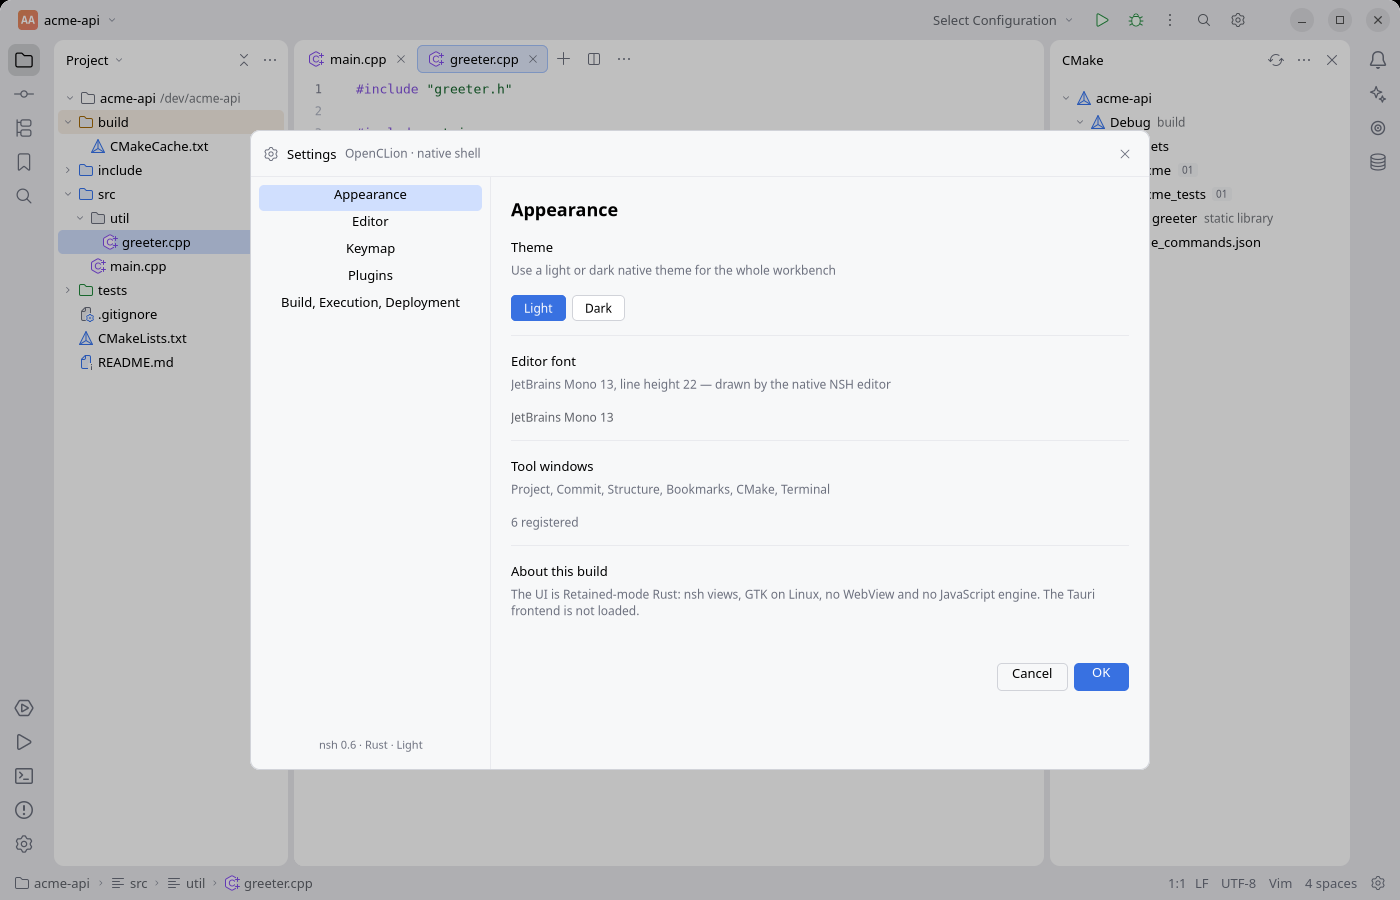
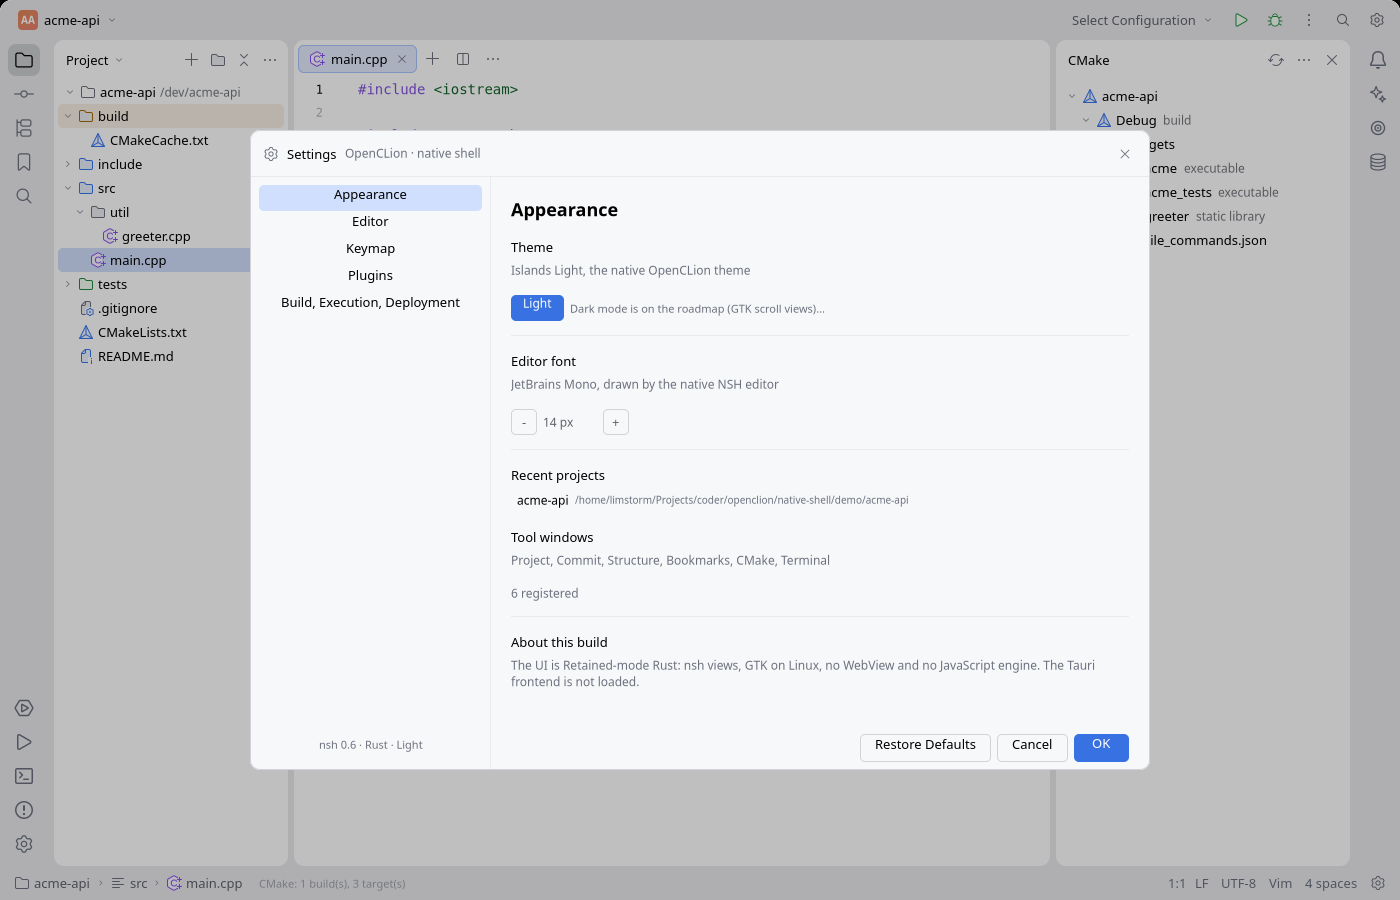
feat(native-shell): persisted workbench settings, font stepper and recent projects
Layout sizes, tool-window visibility, editor font size and recent projects are stored in nsh Storage through serde_json and restored at launch. Settings gains a font stepper and recent-project list; the project menu lists recent workspaces. The editor reads the font signal, and reopening the app keeps the chosen size.

diff --git a/native-shell/src/ui/overlay.rs b/native-shell/src/ui/overlay.rs
@@ -158,8 +158,23 @@ fn project_menu(state: State, pal: Palette) -> impl IntoElement {
                     state.project_menu.set(false);
                     choose_folder(state);
                 }))
-                .child(menu_item(pal, "Recent Projects", false, move || {
-                    state.status.set("Recent projects are kept by the desktop shell".to_owned());
+                .child(menu_item(pal, "Recent Projects", false, move || {}))
+                .child(dynamic(move || {
+                    let recent = state.recent.get();
+                    view()
+                        .flex_col()
+                        .children(recent.into_iter().take(4).map(move |path| {
+                            let target = PathBuf::from(&path);
+                            let label = target
+                                .file_name()
+                                .map(|name| name.to_string_lossy().to_string())
+                                .unwrap_or_else(|| path.clone());
+                            menu_item_owned(pal, label, move || {
+                                state.reload_workspace(target.clone());
+                                state.project_menu.set(false);
+                            })
+                        }))
+                        .into_element()
                 }))
                 .child(view().h(px(1.0)).my(px(4.0)).mx(px(8.0)).bg(pal.border))
                 .child(menu_item(pal, "Close Project", false, move || {
@@ -172,6 +187,21 @@ fn project_menu(state: State, pal: Palette) -> impl IntoElement {
                 })),
         )
         .into_element()
+}
+
+fn menu_item_owned(pal: Palette, label: String, on_press: impl Fn() + 'static) -> View {
+    view()
+        .h(px(28.0))
+        .flex_none()
+        .mx(px(4.0))
+        .flex_row()
+        .items_center()
+        .gap(px(8.0))
+        .px(px(8.0))
+        .rounded(px(5.0))
+        .hover(move |s| s.bg(pal.toolbar_hover))
+        .on_press(on_press)
+        .child(text_ui(label, 13.0, pal.fg))
 }
 
 fn menu_item(pal: Palette, label: &'static str, enabled: bool, on_press: impl Fn() + 'static) -> View {
@@ -332,9 +362,61 @@ fn settings_content(state: State, pal: Palette) -> impl IntoElement {
                 .child(setting_row(
                     pal,
                     "Editor font",
-                    "JetBrains Mono 13, line height 22 — drawn by the native NSH editor",
-                    text_ui("JetBrains Mono 13", 12.0, pal.fg_secondary),
+                    "JetBrains Mono, drawn by the native NSH editor",
+                    view()
+                        .flex_row()
+                        .items_center()
+                        .gap(px(6.0))
+                        .child(font_button(pal, "-", -1.0, state))
+                        .child(
+                            text_ui(
+                                move || format!("{} px", state.editor_font.get()),
+                                12.0,
+                                pal.fg_secondary,
+                            )
+                            .w(px(54.0)),
+                        )
+                        .child(font_button(pal, "+", 1.0, state)),
                 ))
+                .child(
+                    view()
+                        .flex_col()
+                        .gap(px(4.0))
+                        .w_full()
+                        .child(text_ui("Recent projects", 13.0, pal.fg_strong))
+                        .child(dynamic(move || {
+                            let recent = state.recent.get();
+                            if recent.is_empty() {
+                                return text_muted("No recent projects yet", 12.0, pal).into_element();
+                            }
+                            view()
+                                .flex_col()
+                                .gap(px(1.0))
+                                .children(recent.into_iter().take(5).map(move |path| {
+                                    let target = std::path::PathBuf::from(&path);
+                                    let label = target
+                                        .file_name()
+                                        .map(|name| name.to_string_lossy().to_string())
+                                        .unwrap_or_else(|| path.clone());
+                                    view()
+                                        .h(px(24.0))
+                                        .w_full()
+                                        .flex_row()
+                                        .items_center()
+                                        .gap(px(6.0))
+                                        .px(px(6.0))
+                                        .rounded(px(4.0))
+                                        .hover(move |s| s.bg(pal.tree_hover))
+                                        .on_press(move || {
+                                            state.reload_workspace(target.clone());
+                                            state.settings.set(false);
+                                        })
+                                        .child(text_ui(label, 12.0, pal.fg))
+                                        .child(text_muted(path, 10.0, pal).truncate())
+                                }))
+                                .into_element()
+                        })),
+                )
                 .child(setting_row(
                     pal,
                     "Tool windows",
@@ -367,6 +449,18 @@ fn settings_content(state: State, pal: Palette) -> impl IntoElement {
                                 .border(px(1.0))
                                 .border_color(pal.border_strong)
                                 .hover(move |s| s.bg(pal.toolbar_hover))
+                                .on_press(move || crate::settings::restore_defaults(state))
+                                .child(text_ui("Restore Defaults", 13.0, pal.fg)),
+                        )
+                        .child(
+                            view()
+                                .h(px(28.0))
+                                .px(px(14.0))
+                                .items_center()
+                                .rounded(px(5.0))
+                                .border(px(1.0))
+                                .border_color(pal.border_strong)
+                                .hover(move |s| s.bg(pal.toolbar_hover))
                                 .on_press(move || state.settings.set(false))
                                 .child(text_ui("Cancel", 13.0, pal.fg)),
                         )
@@ -383,6 +477,19 @@ fn settings_content(state: State, pal: Palette) -> impl IntoElement {
                         ),
                 ),
         )
+}
+
+fn font_button(pal: Palette, label: &'static str, delta: f32, state: State) -> View {
+    view()
+        .size(px(26.0))
+        .items_center()
+        .justify_center()
+        .rounded(px(5.0))
+        .border(px(1.0))
+        .border_color(pal.border_strong)
+        .hover(move |s| s.bg(pal.toolbar_hover))
+        .on_press(move || crate::settings::set_editor_font(state, state.editor_font.get() + delta))
+        .child(text_ui(label, 13.0, pal.fg_secondary))
 }
 
 fn setting_row(pal: Palette, title: &'static str, detail: &'static str, control: impl IntoElement) -> impl IntoElement {

diff --git a/native-shell/src/settings.rs b/native-shell/src/settings.rs
@@ -1,0 +1,90 @@
+//! Persisted workbench settings: layout sizes, editor font and recent
+//! projects, kept in nsh storage (the platform's local store).
+
+use nsh_core::storage::Storage;
+use serde::{Deserialize, Serialize};
+
+use crate::model::State;
+
+const KEY: &str = "openclion.settings.v1";
+
+#[derive(Debug, Clone, Serialize, Deserialize)]
+#[serde(default)]
+struct Persisted {
+    left_width: f32,
+    right_width: f32,
+    bottom_height: f32,
+    editor_font: f32,
+    recent: Vec<String>,
+    show_left: bool,
+    show_right: bool,
+    show_bottom: bool,
+}
+
+impl Default for Persisted {
+    fn default() -> Self {
+        Self {
+            left_width: 234.0,
+            right_width: 294.0,
+            bottom_height: 220.0,
+            editor_font: 13.0,
+            recent: Vec::new(),
+            show_left: true,
+            show_right: true,
+            show_bottom: false,
+        }
+    }
+}
+
+/// Applies the stored settings to `state` (defaults when nothing is stored).
+pub fn load(state: State) {
+    let Some(json) = Storage::get_item(KEY) else {
+        return;
+    };
+    let Ok(settings) = serde_json::from_str::<Persisted>(&json) else {
+        return;
+    };
+    state.left_width.set(settings.left_width.clamp(180.0, 480.0));
+    state.right_width.set(settings.right_width.clamp(220.0, 520.0));
+    state.bottom_height.set(settings.bottom_height.clamp(120.0, 600.0));
+    state.editor_font.set(settings.editor_font.clamp(10.0, 24.0));
+    state.recent.set(settings.recent);
+    state.show_left.set(settings.show_left);
+    state.show_right.set(settings.show_right);
+    state.show_bottom.set(settings.show_bottom);
+}
+
+/// Writes the workbench settings back to nsh storage.
+pub fn save(state: State) {
+    let settings = Persisted {
+        left_width: state.left_width.get(),
+        right_width: state.right_width.get(),
+        bottom_height: state.bottom_height.get(),
+        editor_font: state.editor_font.get(),
+        recent: state.recent.get(),
+        show_left: state.show_left.get(),
+        show_right: state.show_right.get(),
+        show_bottom: state.show_bottom.get(),
+    };
+    let Ok(json) = serde_json::to_string(&settings) else {
+        return;
+    };
+    let _ = Storage::set_item(KEY, json);
+}
+
+pub fn set_editor_font(state: State, points: f32) {
+    state.editor_font.set(points.clamp(10.0, 24.0));
+    save(state);
+}
+
+pub fn restore_defaults(state: State) {
+    let defaults = Persisted::default();
+    state.left_width.set(defaults.left_width);
+    state.right_width.set(defaults.right_width);
+    state.bottom_height.set(defaults.bottom_height);
+    state.editor_font.set(defaults.editor_font);
+    state.show_left.set(defaults.show_left);
+    state.show_right.set(defaults.show_right);
+    state.show_bottom.set(defaults.show_bottom);
+    save(state);
+}

diff --git a/native-shell/src/ui/rail.rs b/native-shell/src/ui/rail.rs
@@ -89,6 +89,7 @@ fn left_button(state: State, pal: Palette, markup: &'static str, tool: LeftTool,
                 state.left_tool.set(tool);
                 state.show_left.set(true);
             }
+            crate::settings::save(state);
         })
         .child(icon(markup, 20.0, pal.fg_muted).text_color(move || {
             if state.left_tool.get() == tool && state.show_left.get() { pal.fg_strong } else { pal.fg_muted }
@@ -119,6 +120,7 @@ fn bottom_button(state: State, pal: Palette, markup: &'static str, tool: BottomT
                 state.bottom_tool.set(Some(tool));
                 state.show_bottom.set(true);
             }
+            crate::settings::save(state);
         })
         .child(icon(markup, 20.0, pal.fg_muted).text_color(move || {
             if state.bottom_tool.get() == Some(tool) && state.show_bottom.get() { pal.fg_strong } else { pal.fg_muted }
@@ -148,6 +150,7 @@ fn right_button(state: State, pal: Palette, markup: &'static str, tool: RightToo
                 state.right_tool.set(tool);
                 state.show_right.set(true);
             }
+            crate::settings::save(state);
         })
         .child(icon(markup, 20.0, pal.fg_muted).text_color(move || {
             if state.right_tool.get() == tool && state.show_right.get() { pal.fg_strong } else { pal.fg_muted }

diff --git a/native-shell/src/model.rs b/native-shell/src/model.rs
@@ -117,6 +117,8 @@ pub struct State {
     pub search_query: Signal<String>,
     pub search_results: Signal<Vec<SearchHit>>,
     pub tree_rev: Signal<u32>,
+    pub editor_font: Signal<f32>,
+    pub recent: Signal<Vec<String>>,
     pub dialog: Signal<Option<FileDialog>>,
     pub dialog_input: Signal<String>,
     pub searching: Signal<bool>,
@@ -210,6 +212,8 @@ impl State {
             search_query: signal(String::new()),
             search_results: signal(Vec::new()),
             tree_rev: signal(0),
+            editor_font: signal(13.0),
+            recent: signal(Vec::new()),
             dialog: signal(None),
             dialog_input: signal(String::new()),
             searching: signal(false),
@@ -475,6 +479,13 @@ impl State {
         self.active_path.set(PathBuf::new());
         self.editor_seed.set(String::new());
         self.selected.set(None);
+        let key = self.root.get().to_string_lossy().to_string();
+        self.recent.update(|recent| {
+            recent.retain(|item| item != &key);
+            recent.insert(0, key);
+            recent.truncate(8);
+        });
+        crate::settings::save(*self);
         self.status.set("Workspace opened".to_owned());
         self.diagnostics_cache.with(|cache| cache.clear());
         self.diagnostics_rev.update(|rev| *rev += 1);

diff --git a/native-shell/src/lib.rs b/native-shell/src/lib.rs
@@ -6,6 +6,7 @@ mod debug;
 mod icons;
 mod lsp;
 mod model;
+mod settings;
 mod terminal;
 mod theme;
 mod ui;
@@ -31,6 +32,14 @@ fn native(registry: &mut Registry) {
 #[component]
 pub fn App() -> impl IntoElement {
     let state = State::new();
+    settings::load(state);
+    let initial = state.root.get().to_string_lossy().to_string();
+    state.recent.update(|recent| {
+        recent.retain(|item| item != &initial);
+        recent.insert(0, initial);
+        recent.truncate(8);
+    });
+    settings::save(state);
     configure_window();
     install_shortcuts(state);
     state.refresh_cmake();
@@ -82,6 +91,7 @@ fn install_shortcuts(state: State) {
     on_key("F9", move |_| {
         crate::debug::toggle_breakpoint(state, state.cursor.get().0.saturating_sub(1));
     });
+    on_key("mod+alt+s", move |_| state.settings.set(true));
     on_key("mod+s", move |_| state.save_active());
     on_key("mod+w", move |_| {
         let index = state.active.get();

diff --git a/native-shell/src/ui/editor_panel.rs b/native-shell/src/ui/editor_panel.rs
@@ -146,6 +146,7 @@ fn editor_body(state: State, pal: Palette) -> impl IntoElement {
     }
     let seed = state.editor_seed.get();
     let language = language_of(&path);
+    let font = state.editor_font.get();
     let scale = {
         let value = font_scale();
         if value > 0.1 { value } else { 1.0 }
@@ -162,8 +163,8 @@ fn editor_body(state: State, pal: Palette) -> impl IntoElement {
         .default_value(seed)
         .language(language)
         .font_family(SharedString::from("JetBrains Mono, monospace"))
-        .font_size(px(13.0 / scale))
-        .line_height(px(22.0 / scale))
+        .font_size(px(font / scale))
+        .line_height(px((font + 9.0) / scale))
         .line_numbers(true)
         .folding(true)
         .indent_guides(true)

diff --git a/native-shell/README.md b/native-shell/README.md
@@ -53,6 +53,7 @@ backend uses.
 | Debugging          | `ide-dap` + lldb-dap                                  | title-bar bug launches the CMake executable; F9 toggles a breakpoint; Debug window has Continue/Step/Stop, stack frames and locals          |
 | File operations    | `std::fs` + native dialogs                            | Project header + / folder creates a file or folder beside the selection, opens it, and expands the tree                                     |
 | File watcher       | `notify` + `notify-debouncer-full`                    | external creates/renames/deletes rebuild the tree and refresh git status                                                                    |
+| Settings           | nsh `Storage` + `serde_json`                          | editor font size, tool-window sizes/visibility and recent projects persist across runs; Settings shows a font stepper and recent list       |
 
 All backend calls run off the engine thread (`nsh blocking`) and report
 through signals, so the workbench never stalls while CMake or git works.
@@ -130,9 +131,10 @@ opens.
 
 The migration is in progress: CMake, git, search, build/run, clangd
 diagnostics/completion/goto, the PTY terminal and lldb-dap debugging now use
-the main branch backend. File operations now cover create + external-change
-refresh; rename/delete/context menus and the full settings/keymap surface are
-the next slices; the shell keeps the Islands layout while each lands.
+the main branch backend. File operations cover create + external-change
+refresh, and workbench settings persist through nsh storage. Rename/delete and
+context menus, DAP refinements and the keymap/plugins surface are the next
+slices; the shell keeps the Islands layout while each lands.
 
 Islands Light is the target and the default. `theme.rs` also carries the
 Islands Dark palette and the workbench re-colours from it, but the _native
